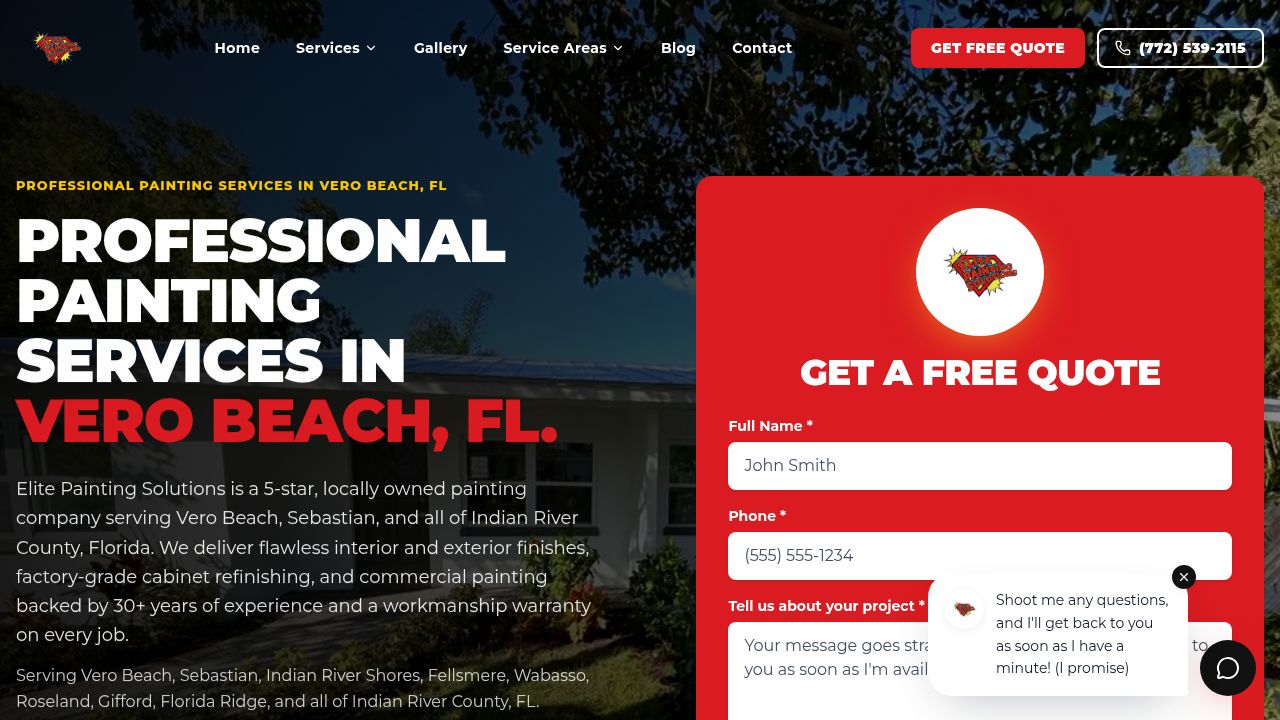
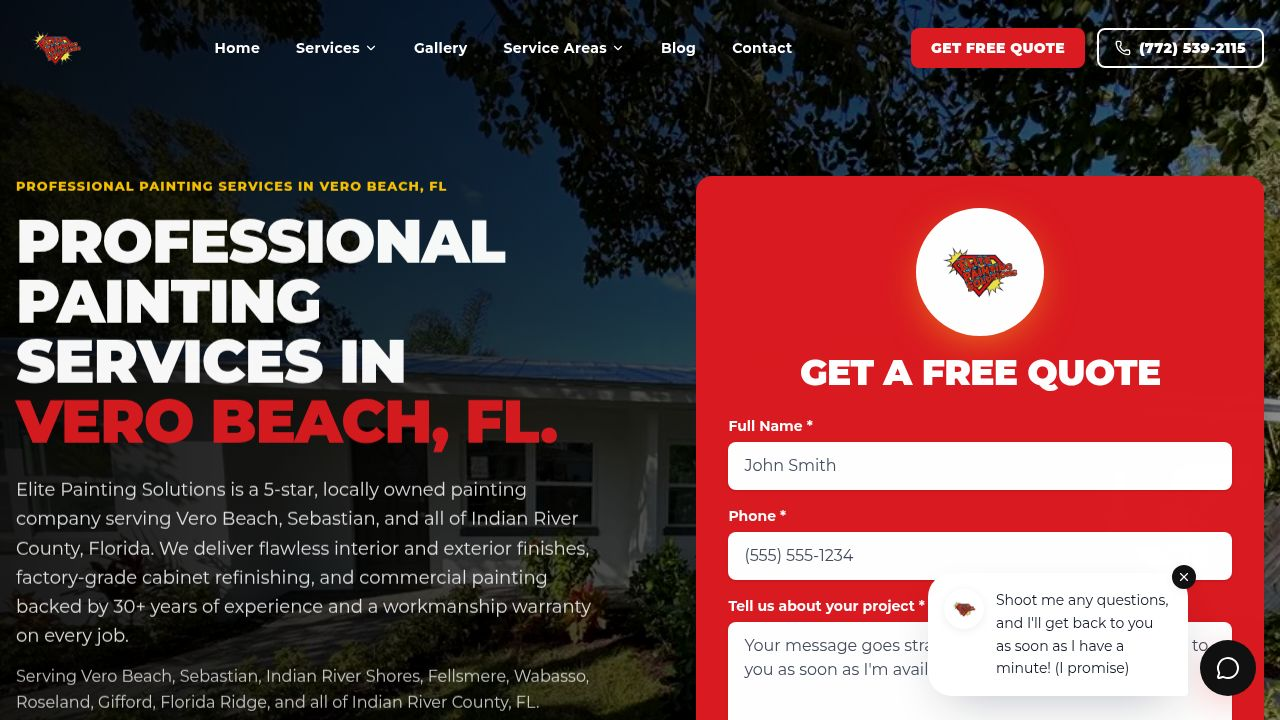
Allow chatbot to connect to Gemini API and pause scrolling elements on hover
Update chatbot functionality to directly call the Gemini API from the browser and implement pause-on-hover for scrolling elements in CSS. Configure Vite to expose the Gemini API key.

Replit-Commit-Author: Agent
Replit-Commit-Session-Id: d1395ceb-1dd4-4438-b99b-b3d61bde4698
Replit-Commit-Checkpoint-Type: full_checkpoint
Replit-Commit-Event-Id: 7f00cbae-029e-440a-969e-810602cf6549
Replit-Commit-Screenshot-Url: https://storage.googleapis.com/screenshot-production-us-central1/e7f3248d-9f32-450a-b18a-7833083b7ad6/d1395ceb-1dd4-4438-b99b-b3d61bde4698/3wuKv3t
Replit-Helium-Checkpoint-Created: true

diff --git a/artifacts/painting-site/src/components/ChatBubble.tsx b/artifacts/painting-site/src/components/ChatBubble.tsx
@@ -12,6 +12,94 @@ const INITIAL_GREETING: ChatMessage = {
   text: "Hi! I'm the Elite Painting Solutions assistant. Ask me about our services, scheduling, or request a free quote — I'm happy to help!",
 };
 
+const FALLBACK_REPLY =
+  "Thanks for reaching out! Looks like the chatbot is having an issue at the moment. " +
+  "You can reach us directly: call or text (772) 539-2115, email [email redacted], " +
+  "or fill out the contact form on this page and we'll get right back to you.";
+
+const SYSTEM_INSTRUCTION = `You are the friendly assistant for Elite Painting Solutions, a 5-star, locally owned painting company serving Vero Beach, Sebastian, and all of Indian River County, Florida. The owner is Michael.
+
+About the company:
+- Phone: (772) 539-2115
+- Email: [email redacted]
+- 30+ years of experience, fully licensed and insured, family-owned
+- Free in-home estimates with no pressure
+- Workmanship warranty plus the manufacturer's paint warranty
+- Premium paints (Sherwin-Williams, Benjamin Moore, low-VOC and zero-VOC options)
+
+Services offered:
+- Interior painting (walls, ceilings, trim, doors, accent walls)
+- Exterior painting (siding, trim, fences, decks; pressure wash + 2 coats)
+- Cabinet refinishing (factory-grade spray finish, typically 4-6 days)
+- Commercial painting (offices, retail, multi-unit; nights/weekends available)
+- Pressure washing (homes, decks, driveways, fences; soft-wash for delicate surfaces)
+- Ceiling services (popcorn ceiling removal, repair, smooth refinishing)
+
+Service areas (Indian River County, FL):
+Vero Beach, Sebastian, Indian River Shores, Fellsmere, Wabasso, Roseland, Winter Beach, Gifford, Florida Ridge, Vero Lake Estates, Orchid.
+
+Style guide:
+- Be brief. 1-3 short sentences total. No paragraphs, no bullet lists, no headings, no markdown.
+- Warm and conversational, but get to the point fast.
+- Never invent prices. For pricing or scheduling, point them to (772) 539-2115 or the quote form.
+- If they ask something outside painting, politely steer back in one sentence.
+- Do not promise specific dates — Michael confirms scheduling personally.`;
+
+const GEMINI_API_KEY =
+  (import.meta.env.VITE_GEMINI_API_KEY as string | undefined) ?? "";
+
+const callGemini = async (
+  history: ChatMessage[],
+  message: string,
+): Promise<string | null> => {
+  if (!GEMINI_API_KEY) return null;
+  try {
+    const url =
+      "https://generativelanguage.googleapis.com/v1beta/models/gemini-2.5-flash-lite:generateContent?key=" +
+      encodeURIComponent(GEMINI_API_KEY);
+
+    const contents = [
+      ...history.slice(-10).map((t) => ({
+        role: t.role,
+        parts: [{ text: t.text }],
+      })),
+      { role: "user" as const, parts: [{ text: message }] },
+    ];
+
+    const controller = new AbortController();
+    const timeout = setTimeout(() => controller.abort(), 12000);
+
+    const res = await fetch(url, {
+      method: "POST",
+      headers: { "Content-Type": "application/json" },
+      body: JSON.stringify({
+        contents,
+        systemInstruction: {
+          role: "system",
+          parts: [{ text: SYSTEM_INSTRUCTION }],
+        },
+        generationConfig: { temperature: 0.6, maxOutputTokens: 256 },
+      }),
+      signal: controller.signal,
+    }).finally(() => clearTimeout(timeout));
+
+    if (!res.ok) return null;
+
+    const data = (await res.json()) as {
+      candidates?: Array<{
+        content?: { parts?: Array<{ text?: string }> };
+      }>;
+    };
+    const text = data?.candidates?.[0]?.content?.parts?.[0]?.text;
+    if (typeof text === "string" && text.trim().length > 0) {
+      return text.trim();
+    }
+    return null;
+  } catch {
+    return null;
+  }
+};
+
 export const ChatBubble = () => {
   const [open, setOpen] = useState(false);
   const [showTeaser, setShowTeaser] = useState(true);
@@ -45,17 +133,13 @@ export const ChatBubble = () => {
     if (!trimmed || loading) return;
 
     const userMsg: ChatMessage = { role: "user", text: trimmed };
+    const priorHistory = messages;
 
-    setMessages([...messages, userMsg]);
+    setMessages([...priorHistory, userMsg]);
     setInput("");
     setLoading(true);
 
-    const reply =
-      "Thanks for reaching out! For the fastest response, call or text us at (772) 539-2115, " +
-      "or fill out the quote form on this page and we'll get right back to you.";
-
-    // Small delay so the typing indicator feels natural
-    await new Promise((resolve) => setTimeout(resolve, 600));
+    const reply = (await callGemini(priorHistory, trimmed)) ?? FALLBACK_REPLY;
 
     setMessages((prev) => [...prev, { role: "model", text: reply }]);
     setLoading(false);

diff --git a/artifacts/painting-site/src/index.css b/artifacts/painting-site/src/index.css
@@ -178,15 +178,19 @@
   -webkit-font-smoothing: antialiased;
 }
 
-/* Always keep marquees running — never pause on hover, focus, or reduced motion */
-.eps-marquee-track,
-.eps-reviews-track {
-  animation-play-state: running !important;
+/* Pause marquees while the cursor (or keyboard focus) is over them, so
+   visitors can comfortably click review cards and social-network links.
+   Animation resumes the moment the cursor leaves the strip. */
+.eps-marquee-viewport:hover .eps-marquee-track,
+.eps-marquee-viewport:focus-within .eps-marquee-track,
+.eps-marquee-viewport:hover .eps-reviews-track,
+.eps-marquee-viewport:focus-within .eps-reviews-track {
+  animation-play-state: paused !important;
 }
 @media (prefers-reduced-motion: reduce) {
   .eps-marquee-track,
   .eps-reviews-track {
-    animation-play-state: running !important;
+    animation-play-state: paused !important;
   }
 }
 

diff --git a/artifacts/painting-site/vite.config.ts b/artifacts/painting-site/vite.config.ts
@@ -17,8 +17,19 @@ const outDir = isGhPages
   ? path.resolve(import.meta.dirname, "..", "..", "docs")
   : path.resolve(import.meta.dirname, "dist/public");
 
+// Expose the Gemini key to the client bundle. Vite normally only forwards
+// VITE_*-prefixed env vars; this lets the existing GEMINI_API_KEY secret flow
+// through without requiring the user to rename it. The site is a 100% static
+// build (GitHub Pages), so the chatbot has to call Gemini directly from the
+// browser — there is no server in production to proxy through.
+const geminiKey =
+  process.env.VITE_GEMINI_API_KEY || process.env.GEMINI_API_KEY || "";
+
 export default defineConfig({
   base: basePath,
+  define: {
+    "import.meta.env.VITE_GEMINI_API_KEY": JSON.stringify(geminiKey),
+  },
   plugins: [
     react(),
     tailwindcss(),